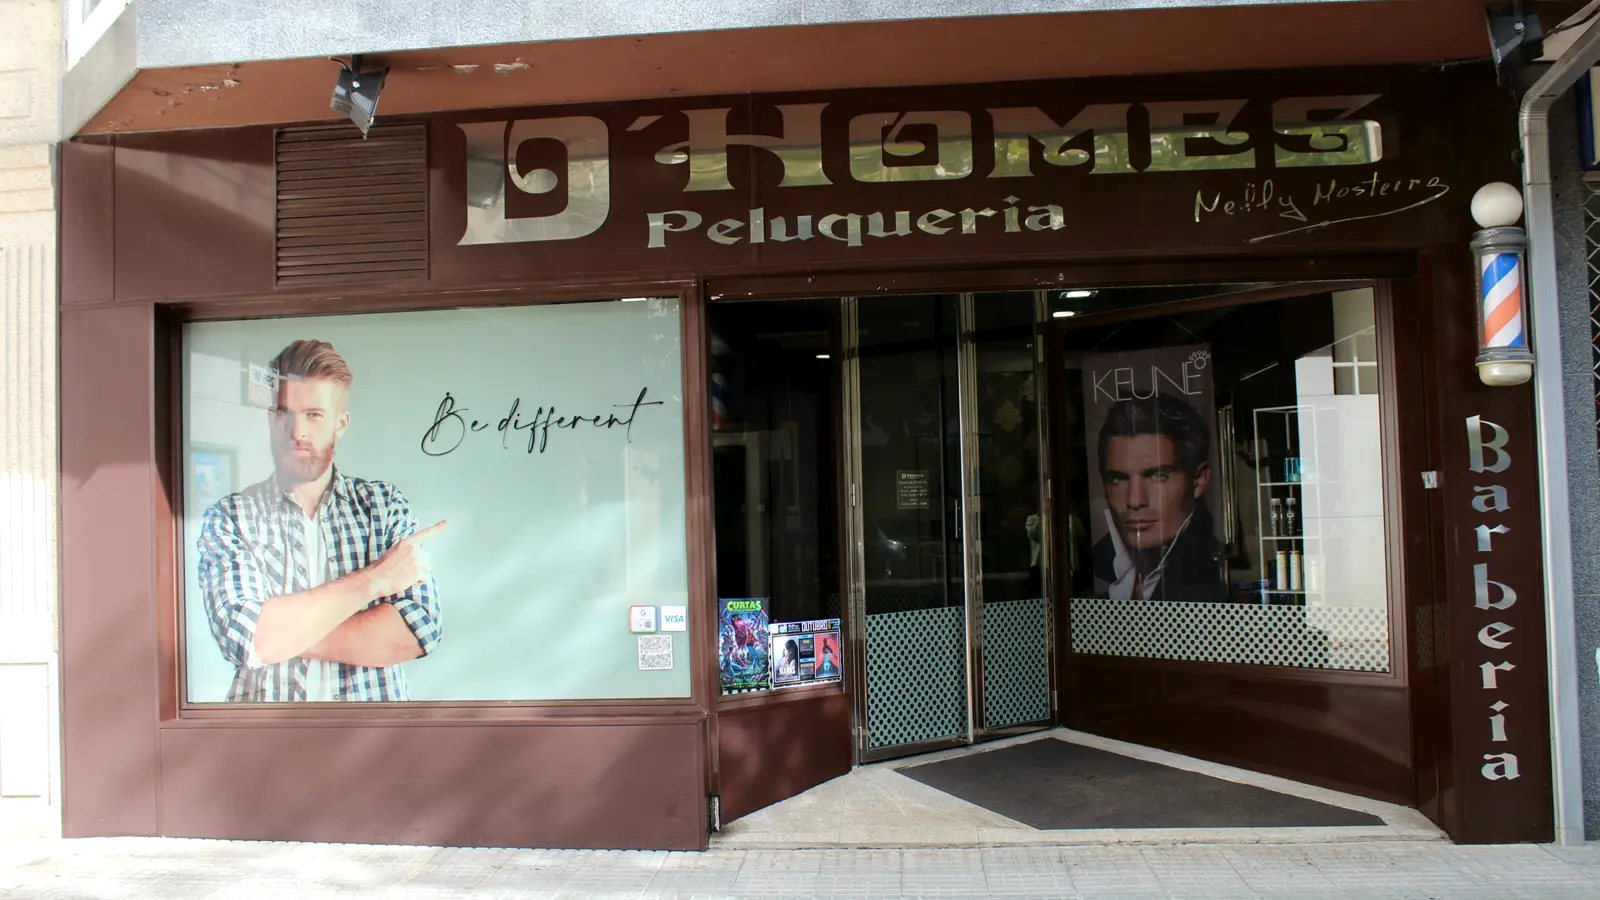
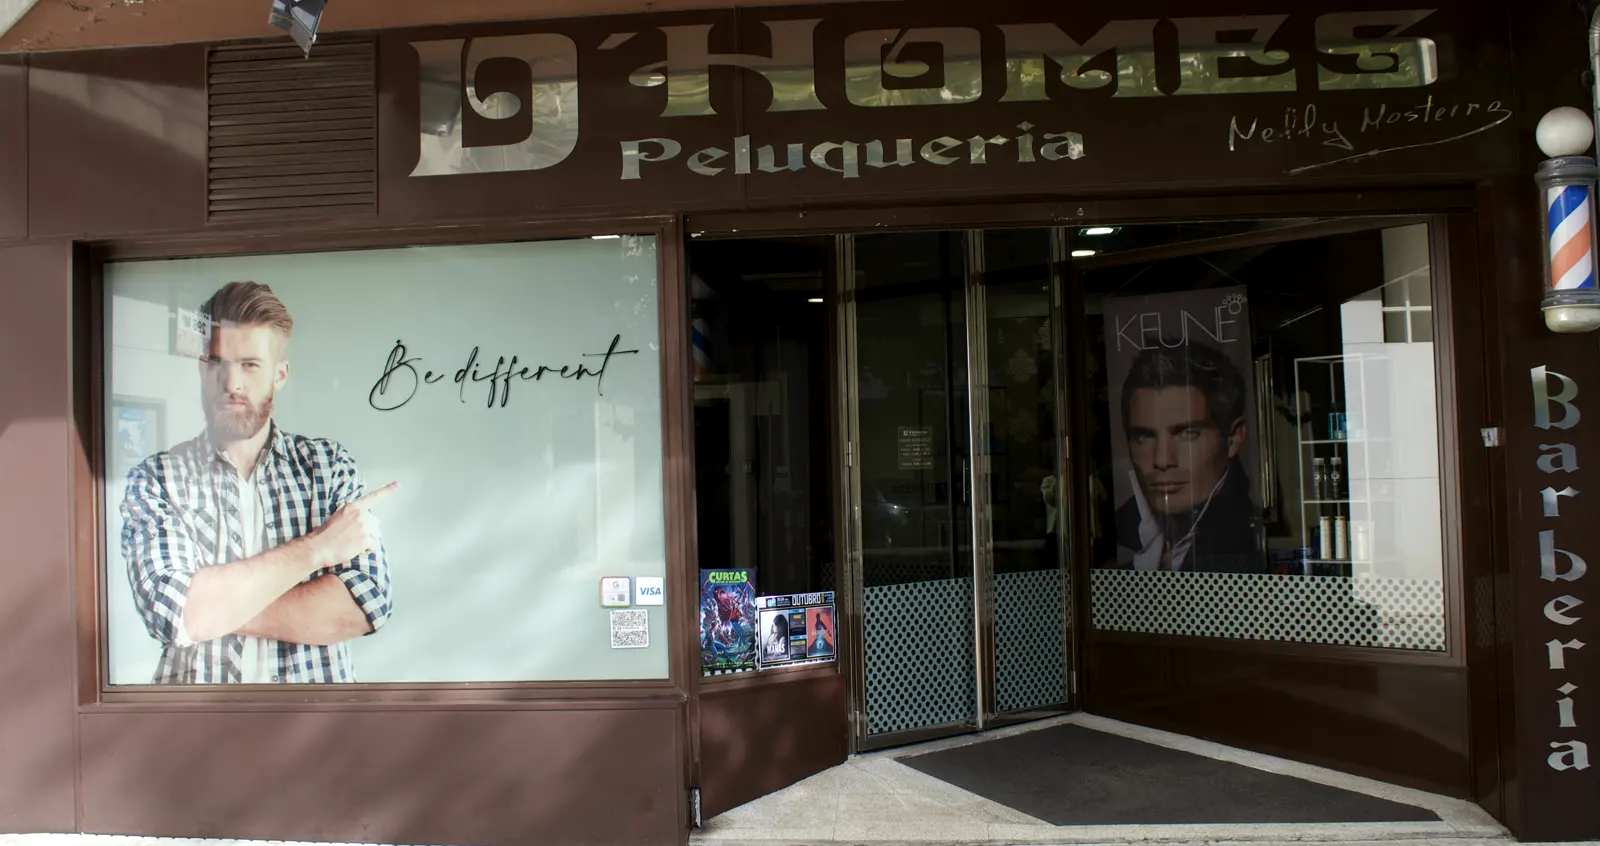
Fachada de la portada recortada y recta
Claude-Session: https://claude.ai/code/session_01Ad3cZ9LoYdcAq9tgU9iuXg

diff --git a/index.html b/index.html
@@ -123,7 +123,7 @@ section{padding:clamp(4.5rem,9vw,7.5rem) 0}
 .ph:has(img,video){background:#140808}
 .ph:has(img,video)::before{display:none}
 .ph video{display:block;width:100%;height:100%;object-fit:cover}
-.hero-ph{aspect-ratio:16/9}
+.hero-ph{aspect-ratio:1600/846}
 .hero-ph img{object-position:50% 50%}
 .nelly-ph img{object-position:50% 35%}
 .team-band{margin:clamp(3rem,6vw,4.5rem) 0 0;display:grid;gap:1.2rem;align-items:center}
@@ -651,7 +651,7 @@ footer{background:var(--bg);padding:2.5rem 0 1.5rem;border-top:1px solid var(--l
         </div>
       </div>
       <div class="hero-media rise d3">
-        <figure class="ph hero-ph"><img src="media/fachada.webp" alt="Fachada de D'Homes Peluquería en la calle Arzobispo Gelmírez, Vilagarcía de Arousa" width="1600" height="900" fetchpriority="high" decoding="async"></figure>
+        <figure class="ph hero-ph"><img src="media/fachada.webp" alt="Fachada de D'Homes Peluquería en la calle Arzobispo Gelmírez, Vilagarcía de Arousa" width="1600" height="846" fetchpriority="high" decoding="async"></figure>
         <aside class="today" aria-label="Horario de hoy">
           <div class="today-h"><span>Hoy</span><span class="st" data-open="">Consultando…</span></div>
           <div class="hrs" id="todayhrs"></div>
